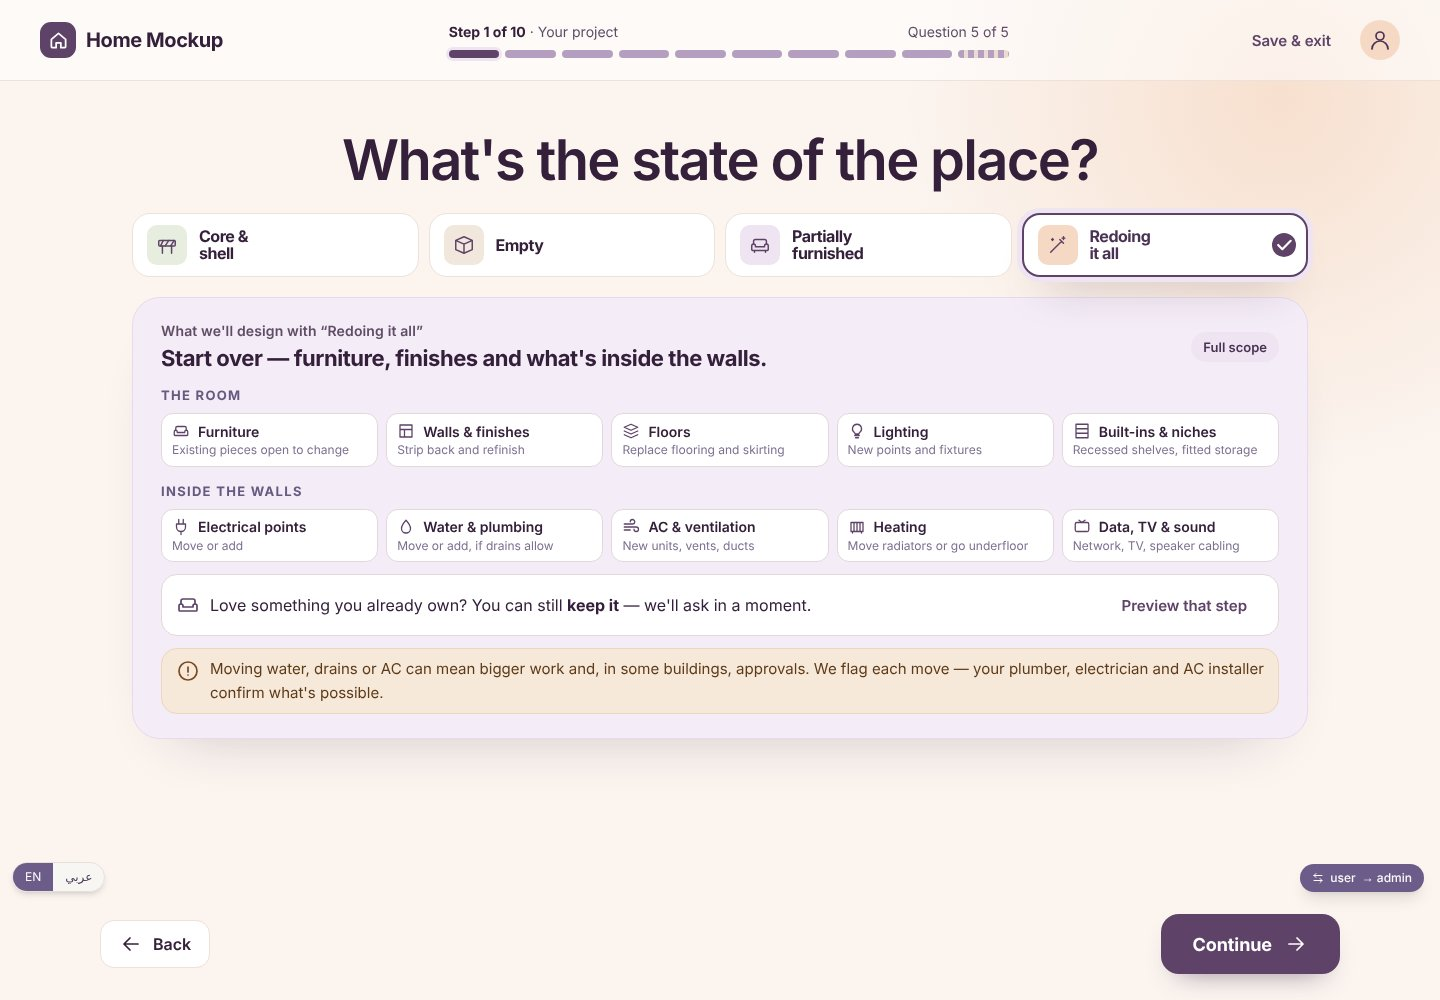
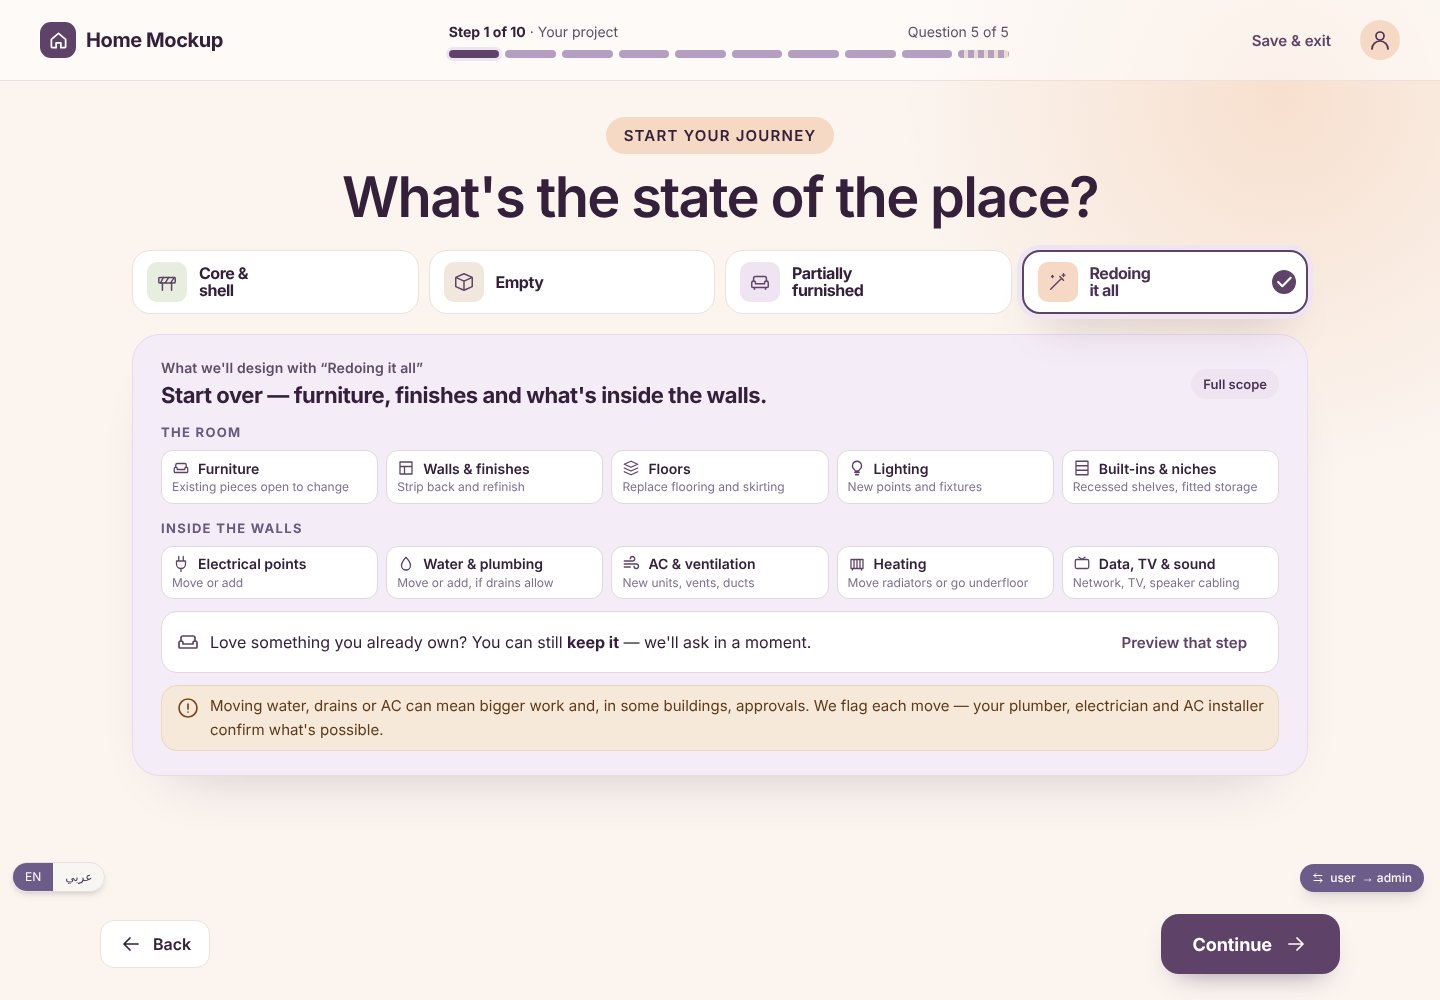
Journey: use the design canvas wording
Shows the canvas's small labels above the title again on desktop ("Start your
journey" on the state screens, "Step 1 complete · Your project" on the brief,
"Your room, as it is" and "Before we pick the pieces") — they were hidden to
fit the window and still fit. The moodboard's adjust field is "Or adjust it",
as on the canvas. Phones keep the compact headings.

Claude-Session: https://claude.ai/code/session_01J5Qu7hdBGxFNu3o8zB1ap3

Changed region(s): [[0.0938, 0.217, 0.9062, 0.744], [0.2188, 0.093, 0.9062, 0.403]]

diff --git a/src/journey/mu.css b/src/journey/mu.css
@@ -136,7 +136,7 @@
 .mu.has-dock .wrap:has(> .panel, > .fit-in > .panel) .g4{margin-top:clamp(12px,2.4vh,28px)!important;gap:10px!important}
 .mu.has-dock .wrap:has(> .panel, > .fit-in > .panel) .panel.lav{margin-top:clamp(12px,2vh,24px)!important}
 .mu.has-dock .wrap:has(> .panel.lav, > .fit-in > .panel.lav) .h1{font-size:clamp(26px,min(4.4vw,5.6vh),60px)}
-.mu.has-dock .wrap:has(> .panel.lav, > .fit-in > .panel.lav) .sub,.mu.has-dock .wrap:has(> .panel.lav, > .fit-in > .panel.lav) .eyebrow{display:none}
+.mu.has-dock .wrap:has(> .panel.lav, > .fit-in > .panel.lav) .sub{display:none}
 .mu.has-dock .panel.lav{padding:clamp(14px,2.4vh,28px) clamp(16px,2vw,28px)}
 .mu.has-dock .panel.lav .h3{font-size:clamp(16px,2.4vh,22px)}
 .mu.has-dock .panel.lav .grp-l{margin:clamp(8px,1.6vh,26px) 0 clamp(6px,1vh,12px)}

diff --git a/src/journey/screens/Step2.tsx b/src/journey/screens/Step2.tsx
@@ -803,7 +803,7 @@ export function Moodboard() {
 
       <section className="dr-decide" aria-label="Decide">
         <form className="dr-adjust" onSubmit={(e) => void update(e)}>
-          <label htmlFor="adjust">Want changes? Adjust it before you keep it</label>
+          <label htmlFor="adjust">Or adjust it</label>
           <div className="row" style={{ gap: "10px", flexWrap: "nowrap" }}>
             <input id="adjust" className="input" value={req} placeholder="e.g. lighter walls, but keep the sofa" onChange={(e) => setReq(e.target.value)} disabled={making} />
             <button className="dr-ghost pri" type="submit" disabled={making || !v}>

diff --git a/src/journey/boards.css b/src/journey/boards.css
@@ -782,7 +782,6 @@
 .mu.fit.b-S1-Summary .fit-in{display:grid;grid-template-columns:minmax(0,1.1fr) minmax(0,1fr) minmax(0,1fr);column-gap:18px;align-items:start}
 .mu.fit.b-S1-Summary .fit-in>:not(.panel){grid-column:1/-1}
 .mu.fit.b-S1-Summary .fit-in>.panel{margin-top:16px!important;padding:20px 22px}
-.mu.fit.b-S1-Summary .eyebrow{display:none}
 .mu.fit.b-S1-Summary .h1{margin-top:0;font-size:clamp(30px,3vw,44px)}
 .mu.fit.b-S1-Summary .sub{margin-top:6px;font-size:16px}
 .mu.fit.b-S1-Summary .brief{grid-template-columns:repeat(2,minmax(0,1fr))!important}
